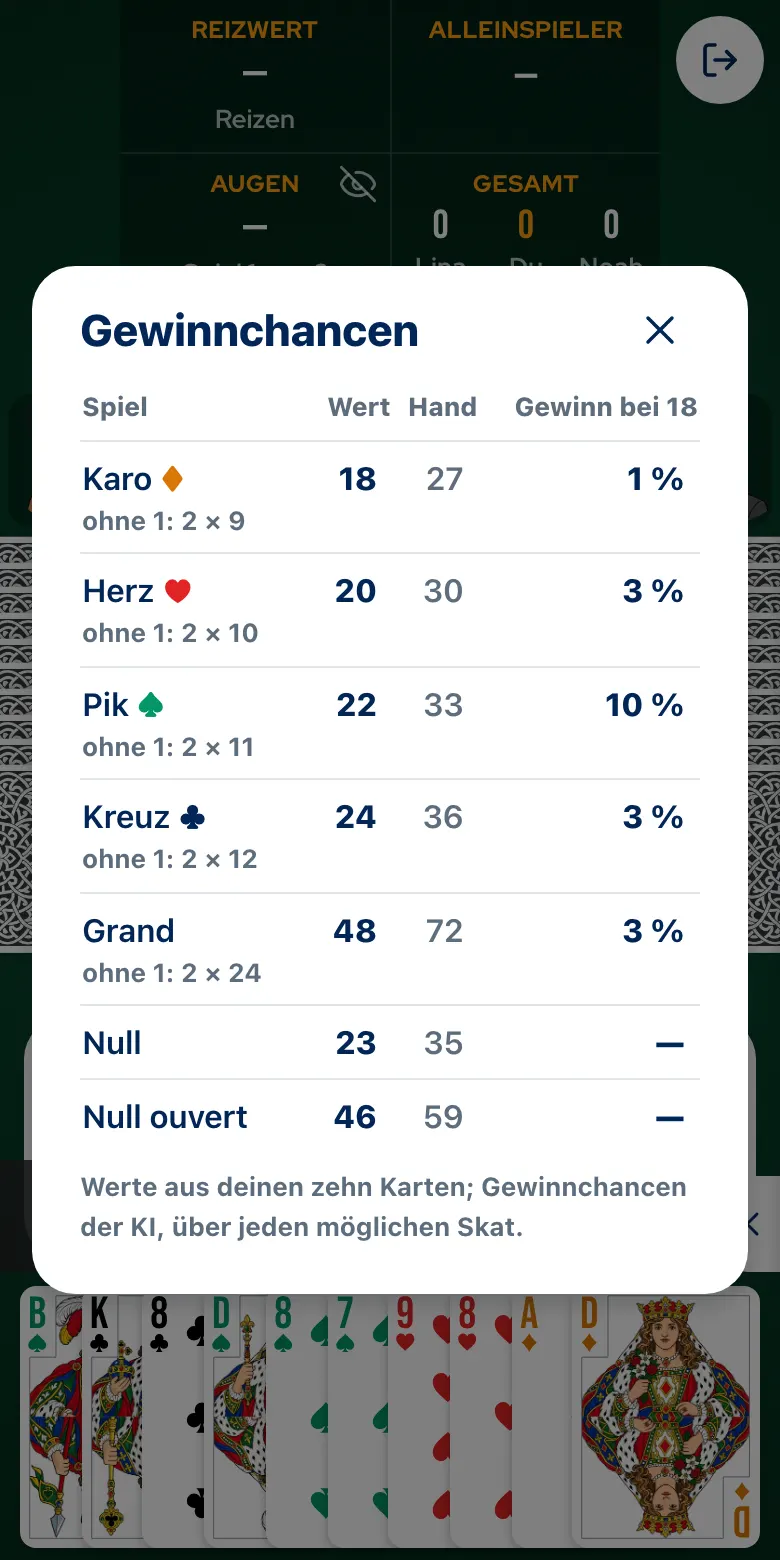
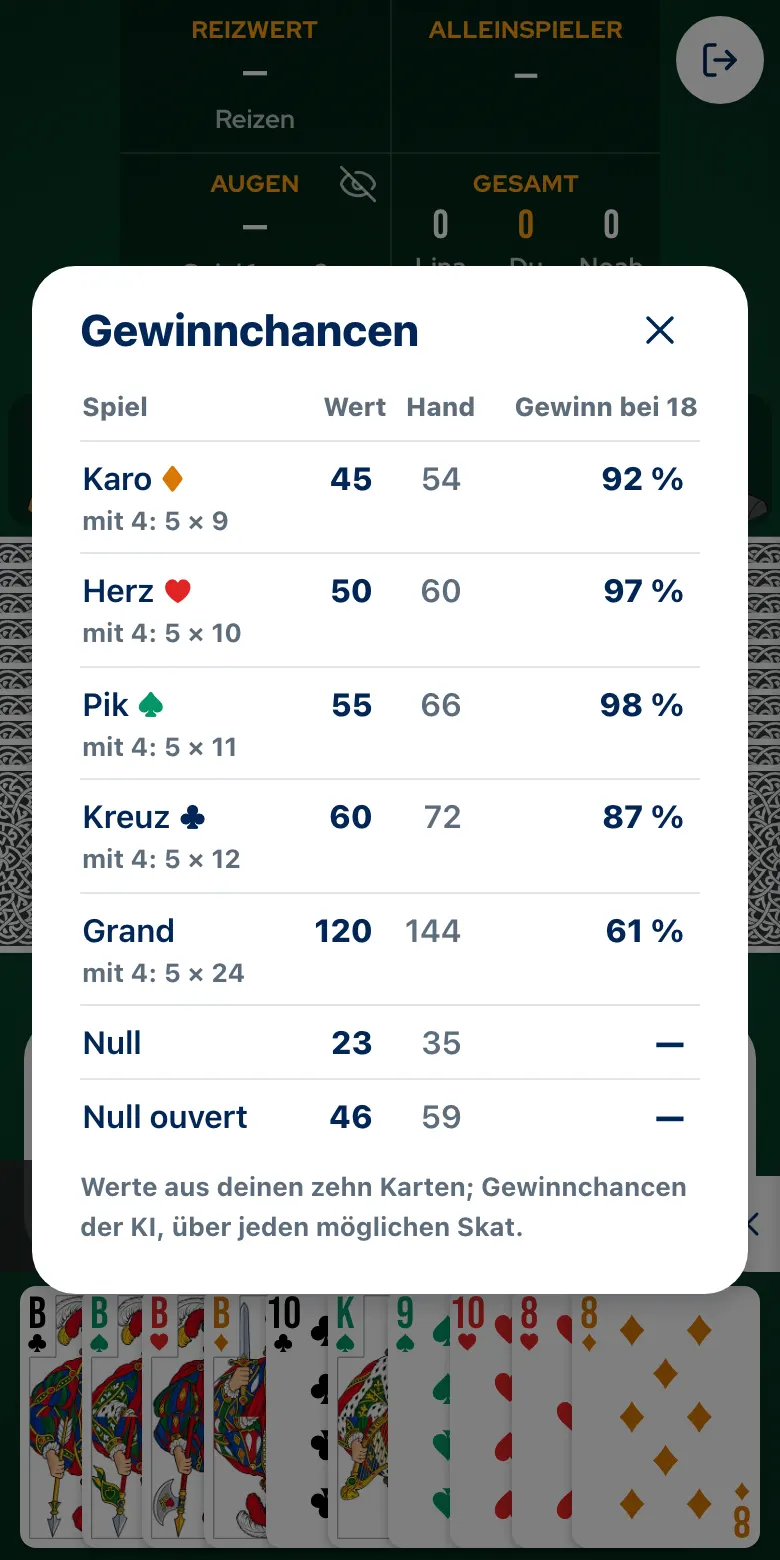
SKATGO-230: brand pages show each brand's start page and SkatGo's open-and-play

diff --git a/app/src/components/skat/brand-page.tsx b/app/src/components/skat/brand-page.tsx
@@ -14,8 +14,9 @@ import { linkLook } from './ui'
 
 /**
  * One big Skat brand's page (SKATGO-229), under the comparison of Skat sites: the brand in our own words from its own
- * pages, what it offers, it and SkatGo side by side, the questions asked about it, and a box at the top and the end
- * leading to SkatGo's front page — free, no sign-up. Laid out as the comparison is; nothing links away to the brand,
+ * pages beside a screenshot we took of its start page (SKATGO-230), SkatGo's "open the page and play" with its own table
+ * as it opens, what the brand offers, it and SkatGo side by side (first: playing without signing up), the questions asked
+ * about it, and a box at the end leading to SkatGo's front page — free, no sign-up. Laid out as the comparison is; nothing links away to the brand,
  * and the way back is the comparison itself.
  */
 function BrandPage({ id }: { id: Brand['id'] }) {
@@ -50,8 +51,27 @@ function BrandPage({ id }: { id: Brand['id'] }) {
       <article {...stylex.props(styles.column)}>
         <Link to="/skat-sites-compared" data-testid="brand-back-top" {...stylex.props(typography.link, styles.link)}>{m.brand_back()}</Link>
         <h1 {...stylex.props(typography.landingHeading, styles.title)}>{brand.heading[locale]}</h1>
-        <p data-testid="brand-intro" {...stylex.props(typography.body, styles.text)}>{brand.intro[locale]}</p>
-        {cta('brand-cta-top')}
+        <div {...stylex.props(styles.introRow)}>
+          <p data-testid="brand-intro" {...stylex.props(typography.body, styles.text)}>{brand.intro[locale]}</p>
+          <figure data-testid="brand-shot" {...stylex.props(styles.figure)}>
+            <img src={brand.screenshot.file} alt={m.brand_shot_caption({ site: brand.screenshot.site })} loading="lazy" {...stylex.props(styles.brandShot)} />
+            <figcaption {...stylex.props(typography.note, styles.muted)}>{m.brand_shot_caption({ site: brand.screenshot.site })}</figcaption>
+          </figure>
+        </div>
+
+        <section data-testid="brand-play" aria-labelledby="brand-play-title" {...stylex.props(styles.play)}>
+          <div {...stylex.props(styles.playText)}>
+            <h2 id="brand-play-title" {...stylex.props(typography.optionTitle, styles.title)}>{m.brand_play_title()}</h2>
+            <img src={`/compare/table-${locale}.webp`} alt={m.brand_play_alt()} loading="lazy" {...stylex.props(styles.playShot)} />
+            <ol {...stylex.props(styles.steps)}>
+              <li {...stylex.props(typography.body, styles.text)}>{m.brand_play_1()}</li>
+              <li {...stylex.props(typography.body, styles.text)}>{m.brand_play_2()}</li>
+              <li {...stylex.props(typography.body, styles.text)}>{m.brand_play_3()}</li>
+            </ol>
+            <p {...stylex.props(typography.body, typography.emphasis, styles.title)}>{m.brand_play_note()}</p>
+            <Link to="/" data-testid="brand-play-go" {...linkLook('go', 'lg')}>{m.compare_cta()}</Link>
+          </div>
+        </section>
 
         <section data-testid="brand-offers" aria-labelledby="brand-offers-title" {...stylex.props(styles.section)}>
           <h2 id="brand-offers-title" {...stylex.props(typography.optionTitle, styles.title)}>{m.brand_offers_title({ subject })}</h2>
@@ -73,6 +93,11 @@ function BrandPage({ id }: { id: Brand['id'] }) {
                   </tr>
                 </thead>
                 <tbody>
+                  <tr data-row="signup">
+                    <th scope="row" {...stylex.props(typography.bodySmall, typography.emphasis, styles.cell, styles.label)}>{m.brand_signup()}</th>
+                    <td {...stylex.props(typography.bodySmall, styles.cell)}>{brand.signup.text[locale]}</td>
+                    <td {...stylex.props(typography.bodySmall, typography.emphasis, styles.cell, styles.ours)}>{m.brand_signup_us()}</td>
+                  </tr>
                   {rows.map((c) => (
                     <tr key={c}>
                       <th scope="row" {...stylex.props(typography.bodySmall, typography.emphasis, styles.cell, styles.label)}>{columns[c]}</th>
@@ -149,6 +174,43 @@ const styles = stylex.create({
     backgroundColor: color.surface,
   },
   ctaText: { display: 'flex', flexDirection: 'column', gap: space.x6 },
+  // The intro beside the brand's own start page, one under the other on a phone.
+  introRow: {
+    display: 'grid',
+    gridTemplateColumns: { default: dims.boardColumns, [bp.phone]: dims.oneColumn },
+    gap: space.x20,
+    alignItems: 'start',
+  },
+  figure: { display: 'flex', flexDirection: 'column', gap: space.x6, margin: 0 },
+  brandShot: {
+    display: 'block',
+    width: '100%',
+    height: 'auto',
+    borderRadius: radii.panel,
+    borderWidth: border.hair,
+    borderStyle: 'solid',
+    borderColor: color.hairline,
+  },
+  // SkatGo's strongest point, under the intro: its table as it opens, three steps and the way in.
+  play: {
+    padding: { default: space.x20, [bp.phone]: space.x16 },
+    borderRadius: radii.panel,
+    borderWidth: border.hair,
+    borderStyle: 'solid',
+    borderColor: color.hairline,
+    backgroundColor: color.goodSoft,
+  },
+  playShot: {
+    display: 'block',
+    width: '100%',
+    height: 'auto',
+    borderRadius: radii.panel,
+    borderWidth: border.hair,
+    borderStyle: 'solid',
+    borderColor: color.hairline,
+  },
+  playText: { display: 'flex', flexDirection: 'column', gap: space.x12, alignItems: 'flex-start' },
+  steps: { display: 'flex', flexDirection: 'column', gap: space.x6, margin: 0, paddingInlineStart: space.x20, listStyleType: 'decimal' },
   offers: {
     display: 'grid',
     gridTemplateColumns: { default: dims.boardColumns, [bp.phone]: dims.oneColumn },

diff --git a/app/src/lib/brands.ts b/app/src/lib/brands.ts
@@ -25,6 +25,11 @@ export type Brand = {
   heading: Text
   intro: Text
   introSource: string
+  /** A screenshot we took of the brand's public start page, shown beside its intro with its source (§51 UrhG): never the
+   *  brand's own artwork. `site` names the page in the caption. */
+  screenshot: { file: string; site: string }
+  /** How one starts to play there, in its own terms — the row that sets SkatGo's "open the page and play" beside it. */
+  signup: Sourced
   offers: Sourced[]
   faq: { q: Text; a: Text; source: string }[]
 }
@@ -69,6 +74,8 @@ export const BRANDS: Brand[] = [
       en: 'Spiele-Palast GmbH\'s Skat Palast has been a proven live platform for Skat for over twelve years. By its own account around 100,000 active players meet there every month, organised in over 1,700 clubs. You play in the browser, on Windows or in the apps for iPhone, iPad and Android, at the standard table by the International Skat Order or with special rules such as Ramsch and Bock.',
     },
     introSource: SP_PLAY,
+    screenshot: { file: '/compare/brands/skat-palast.webp', site: 'skat-palast.de' },
+    signup: s('In den Apps auf Mobilgeräten ohne Konto', 'In the mobile apps without an account', SP),
     offers: [
       s('Live-Skat gegen echte Gegner aus ganz Deutschland', 'Live Skat against real opponents from all over Germany', SP),
       s('Standardtisch nach der Internationalen Skatordnung des DSkV, dazu Sonderregeln wie Ramsch, Bock, Kontra und Re', 'A standard table by the DSkV\'s International Skat Order, plus special rules such as Ramsch, Bock, Kontra and Re', SP_PLAY),
@@ -110,6 +117,8 @@ export const BRANDS: Brand[] = [
       en: 'Skatstube is a Skat portal run by Skatstube GmbH in Berlin. By its own account 370,000 Skat players play there, so everyone finds the right partners. Signing up and playing are free, and you play in the browser or in the apps for iPhone and iPad. If you like it sociable, take a seat in the "Kneipe", where Kontra, Re and Ramsch belong.',
     },
     introSource: SS,
+    screenshot: { file: '/compare/brands/skatstube.webp', site: 'skatstube.de' },
+    signup: s('Mit kostenloser Anmeldung', 'With a free sign-up', SS),
     offers: [
       s('Kostenlose Anmeldung und kostenloses Spiel, so lange man mag', 'Free sign-up and free play for as long as you like', SS_HELP),
       s('Verschiedene Spielräume, darunter die „Kneipe“ mit Kontra, Re und Ramsch', 'Several rooms, among them the "Kneipe" with Kontra, Re and Ramsch', SS_HELP),
@@ -149,6 +158,8 @@ export const BRANDS: Brand[] = [
       en: 'Euroskat is run by Ver-Ma-Web GmbH in Elsfleth and has been a fixed address for online tournament Skat since 2007. With the German Skat association it hosts official competitions, among them the online Bundesliga, the women\'s cup and individual championships. You play right in the browser, and German-speaking moderators look after the games every day from morning until late at night.',
     },
     introSource: ES,
+    screenshot: { file: '/compare/brands/euroskat.webp', site: 'euroskat.com' },
+    signup: s('Mit einem kostenlosen Account', 'With a free account', ES),
     offers: [
       s('Zahlreiche Turniere täglich zwischen 8:15 und 23:55 Uhr', 'Many tournaments every day between 8:15 am and 11:55 pm', ES),
       s('Offizielle DSkV-Wettbewerbe: Online-Bundesliga, Damenpokal, Einzelmeisterschaften', 'Official DSkV competitions: online Bundesliga, women\'s cup, individual championships', ES),
@@ -188,6 +199,8 @@ export const BRANDS: Brand[] = [
       en: 'Skat-Online is a Skat platform run by MY Skat GmbH & Co. KG and, by its own account, has been online for 20 years, with over a million members and 30 million games a year. Many online clubs play their series here, and the rules are strictly the International Skat Order, just like in a club. You play with a small program that runs on Windows, Linux and Mac.',
     },
     introSource: SO,
+    screenshot: { file: '/compare/brands/skat-online.webp', site: 'skat-online.com' },
+    signup: s('Nach kostenloser Registrierung im Standardbereich', 'After a free sign-up to the standard area', 'https://www.skat-online.com/de/nutzungsordnung.html'),
     offers: [
       s('Streng nach der Internationalen Skatordnung, mit eigener Skat-Online-Skatordnung', 'Strictly by the International Skat Order, with its own Skat-Online rules', SO_FAQ),
       s('Die Plattform vieler Online-Clubs', 'The platform of many online clubs', SO),

diff --git a/.intentfold/charter/product.md b/.intentfold/charter/product.md
@@ -257,13 +257,17 @@ entry for the people who look for Skat Palast, Skatstube, Euroskat and the other
 and leads to SkatGo (the human: 「可以比较，但是都说好话，主要是导流到skatgo首页」): a matrix of what stands out, opponents,
 platforms, rules, competition and learning, SkatGo's own screens and strengths, a short guide, a portrait of each provider in our own words from
 what it says about itself, and questions people ask; a box at its top, after SkatGo's part and at its end says SkatGo is free with
-no sign-up and opens the front page, and nothing links away to the other providers. Nothing negative or sensitive about another provider is said — no ads, no money play — and none of their
-pictures is shown; every statement about them comes from their own pages on the date the page names, and the human updates
+no sign-up and opens the front page, and nothing links away to the other providers. Nothing negative or sensitive about another provider is said — no ads, no money play — and on the comparison
+page none of their pictures is shown; every statement about them comes from their own pages on the date the page names, and the human updates
 it by hand, never a scheduled crawl. Its one way in is the footer (「可以放到footerlink里……但是别在其他地方乱搞入口」).
 Under it, one page for each of the biggest brands people search by name — Skat Palast, Skatstube, Euroskat and Skat-Online
 (SKATGO-229, the human: 「好，按这个方案做」 to pages per brand rather than "alternative" or "vs" pages, which nobody searches): the
 brand in our own words, what it offers, it and SkatGo side by side, the questions asked about it, and the same boxes leading to
-SkatGo's front page. Each page's words are its brand's, never a template with the name swapped. They are reached only from the
+SkatGo's front page. Each page's words are its brand's, never a template with the name swapped. Beside its intro stands a
+screenshot we took of the brand's public start page, with the site and the month it was taken (SKATGO-230, the human:
+「弄点人家的截图，有机的插进去」) — never the brand's own artwork — and under it SkatGo's strongest point, "open the page and
+play": SkatGo's table as it opens, three steps, no account, app or download (「突出免注册，打开网页就能玩」); the side-by-side
+table opens with playing without signing up. They are reached only from the
 comparison, each portrait there linking its brand's page, and each leads back to it; the footer keeps its one link.
 
 A rules reference: the whole rules at `/rules`, with anchors for what people look up by name (Grand,

diff --git a/.intentfold/tickets/SKATGO-230/handoff.md b/.intentfold/tickets/SKATGO-230/handoff.md
@@ -1,0 +1,38 @@
+# SKATGO-230 handoff
+
+## What changed
+- `app/public/compare/brands/{skat-palast,skatstube,euroskat,skat-online}.webp` — each brand's public start page, taken with
+  `cloak-fetch --screenshot`, cut with `ffmpeg` (no money-play text, no cookie banner) and encoded with `cwebp`.
+- `app/scripts/make-compare-shots.mjs` — a new landscape shot `table-{de,en}.webp`: free play as it opens, cards dealt.
+- `app/src/lib/brands.ts` — `screenshot` (file, site) and `signup` (how one starts there, sourced) per brand.
+- `app/src/components/skat/brand-page.tsx` — intro beside the brand's screenshot with "Startseite von <site>, Screenshot vom
+  November 2026"; a green block "Bei SkatGo: Seite öffnen und losspielen" with SkatGo's table, three numbered steps, "Kein
+  Konto, keine App, kein Download und keine Wartezeit auf Mitspieler." and a button to the front page; the side-by-side table
+  opens with "Spielen ohne Anmeldung".
+- Messages: the shared box now reads "Seite öffnen und sofort spielen" (also on the comparison page); new `brand_*` texts.
+- Charter: product.md and ui.md amended at the human's request (pictures of the brands on their pages); engineering.md
+  records how the screenshots are made.
+
+## AC results (web 55230; headed Chromium; `tmp/ac.mjs`: 56 checks)
+1. **Pass.** All 8 pages show their brand's screenshot (960 px), captioned with the site and 2026.
+2. **Pass.** All 8 show the play block with `table-<lang>.webp` loaded, "Kein Konto"/"No account", button to `/de` or `/en`.
+3. **Pass.** First table row "Spielen ohne Anmeldung" with SkatGo's "Seite öffnen …"; no negative words, no links away.
+4. **Pass.** No sideways scroll at 1280, 375, 360 px.
+5. Recorded at close.
+
+Mechanical defence passed in full (353 tests, `check:seo -- --built` 62 indexable pages, `test:seo` 28 pass).
+
+## Deviations
+- The SkatGo table shot is landscape (desktop) so it can run full width; the phone shots are unchanged in kind.
+
+## Environment
+Ports web 55230, multiplayer 56230, database 57230 (container `skatgo-multiplayer-db-57230`). No env key changed.
+
+## Residual
+- The brand screenshots date from 22–23 November 2026; retake them if a brand redesigns its start page.
+
+## Check
+1. `/de/skat-online-vergleich/skatstube` and the other three — the screenshots and the green block.
+
+## Decided for you
+See `grill.md`.

diff --git a/.intentfold/charter/ui.md b/.intentfold/charter/ui.md
@@ -479,10 +479,14 @@ Recurring patterns — reuse them rather than inventing a neighbour:
   the provider; the questions; last two `note` lines in `slate`, the second ending in a link to the imprint. No other provider's
   picture or logo.
 - **A Skat brand's page** (`brand-page.tsx`, `/skat-sites-compared/<brand>`, SKATGO-229): the reading column — a plain `info`
-  link back to the comparison above the H1, the H1 and the brand in a paragraph; the comparison's box leading to the front page;
+  link back to the comparison above the H1, the H1; the brand in a paragraph beside the screenshot of its start page in a
+  `hairline` frame with its source in `note` under it (two columns, one on a phone, SKATGO-230); a `goodSoft` box "Bei SkatGo:
+  Seite öffnen und losspielen" with SkatGo's free-play table as it opens, full width, three numbered steps, a bold line and
+  one large `go` button to the front page;
   what the brand offers as bordered `color.surface` boxes, two to a row (one on a phone); a three-column `<table>` of the
   criteria, the brand's column then SkatGo's on `goodSoft`; its questions; the box again, the link back, and the two `note`
-  lines. Each portrait on the comparison ends in an `info` link to its brand's page. No picture, no link away to the brand.
+  lines. Each portrait on the comparison ends in an `info` link to its brand's page. The side-by-side table opens with
+  playing without signing up. No other picture of the brand, no link away to it.
 - **About SkatGo** (`about-page.tsx`, `/about`, SKATGO-134, the human: 「所有seo的都专门做seo页面」): one reading column —
   the H1, then three sections under `optionTitle` headings: the questions people ask (`lib/faq.ts`, also the page's
   FAQPage), each question bold over its answer; "Tägliches Skat", how the deal of the day and the six deals are played,

diff --git a/.intentfold/charter/engineering.md b/.intentfold/charter/engineering.md
@@ -484,6 +484,9 @@ the committed fixture (`test/fixtures/skatzero-parity.json`, produced by that dr
 - `app/public/compare/*-{de,en}.webp` — SkatGo's own screens on the comparison page (SKATGO-228), taken from a local
   build with web and multiplayer running by `node app/scripts/make-compare-shots.mjs http://localhost:<web-port>` (Playwright
   from app's devDependencies, `cwebp`; it refuses any non-local origin). Retake them when those screens change.
+- `app/public/compare/brands/*.webp` — each brand's public start page as we took it (SKATGO-230): `cloak-fetch --screenshot`
+  of the page, its top cut and scaled to 960 wide with `ffmpeg`, and `cwebp -q 78`; the cuts leave out anything about money
+  play. Retake them, never edit them; a brand page's caption names the site and the month.
 - `app/public/quick-start-table-{de,en}.webp` — the table on "Skat in 5 Minuten" (SKATGO-89), caught in a
   real free game by `node .intentfold/tickets/SKATGO-89/table-shot.mjs <running origin>` (web and
   multiplayer running, Playwright from app's devDependencies, `cwebp`). Redraw it when the table's look

diff --git a/.intentfold/tickets/SKATGO-230/plan.md b/.intentfold/tickets/SKATGO-230/plan.md
@@ -1,0 +1,11 @@
+# SKATGO-230 plan
+
+## 看到的、工单没说的
+- 对方首页截图会带出敏感内容：Skatstube 标题下一行写"Skat um echtes Geld"，Skat-Online 首页下方有"Skat um Geld spielen"，Euroskat 首页有 cookie 弹窗——都要裁掉。
+- 截图只能自己截（cloak-fetch），不能用对方的宣传图或商店图；配网站名和月份说明来源。
+- 页面上"打开网页就能玩"最有说服力的证据是 SkatGo 自己打开即发好牌的画面：在 `make-compare-shots.mjs` 加一张横版截图。
+
+## 路线
+1. cloak-fetch 截四家首页，ffmpeg 裁剪（Skatstube 用页头 + "Anmeldung kostenlos"表单两段拼接，避开真钱那句），cwebp → `app/public/compare/brands/`。
+2. `brands.ts` 加 `screenshot`、`signup`；`brand-page.tsx`：介绍旁放截图和说明；绿色"Seite öffnen und losspielen"块（SkatGo 截图、三步、按钮）；对比表第一行"Spielen ohne Anmeldung"；共用按钮框文字改为突出免注册。
+3. charter 按人的要求修改"不展示对方图片"。

diff --git a/.intentfold/tickets/SKATGO-230/grill.md b/.intentfold/tickets/SKATGO-230/grill.md
@@ -1,0 +1,8 @@
+# SKATGO-230 grill（Grill: human；没有问题达到需要问人的标准）
+
+## 我替你决定的
+1. 只截对方公开首页的顶部，不用宣传图、商店图；说明写网站名和月份。依据：工单 Constraints（§51 UrhG）。
+2. 裁掉提到真钱的内容和 cookie 弹窗：Skatstube 页头 + "Anmeldung und Skat spielen sind kostenlos"表单段拼接；Skat-Online 取上部；Euroskat 取顶部。依据：SKATGO-228 人的"只说好话、不提真钱"。
+3. SkatGo 的证据用自己打开免费对局即发好牌的横版截图，放在介绍下面的绿色块里，配三步和按钮。
+4. 对比表第一行"Spielen ohne Anmeldung"：对方只写事实（"Mit kostenloser Anmeldung"等），SkatGo 写"Seite öffnen, und die Karten liegen auf dem Tisch"。
+5. 共用的按钮框文字（总对比页也用）改为"Seite öffnen und sofort spielen"，突出免注册。

diff --git a/.intentfold/tickets/SKATGO-230/ac.md b/.intentfold/tickets/SKATGO-230/ac.md
@@ -1,0 +1,6 @@
+# SKATGO-230 AC 检查方案（web 55230；有头 Chromium；tmp/ac.mjs）
+1. 8 页各有 `/compare/brands/<brand>.webp`，加载成功，说明含网站名和 2026。
+2. 8 页各有"打开网页就能玩"块：`/compare/table-<lang>.webp` 加载成功，写有"Kein Konto"/"No account"，按钮指向 `/de` 或 `/en`。
+3. 对比表第一行是"Spielen ohne Anmeldung"，SkatGo 一栏写"Seite öffnen"；页面无负面词、无外链。
+4. 1280、375、360 px 无横向滚动。
+5. 上线后重新提交收录（关单时记录）。
